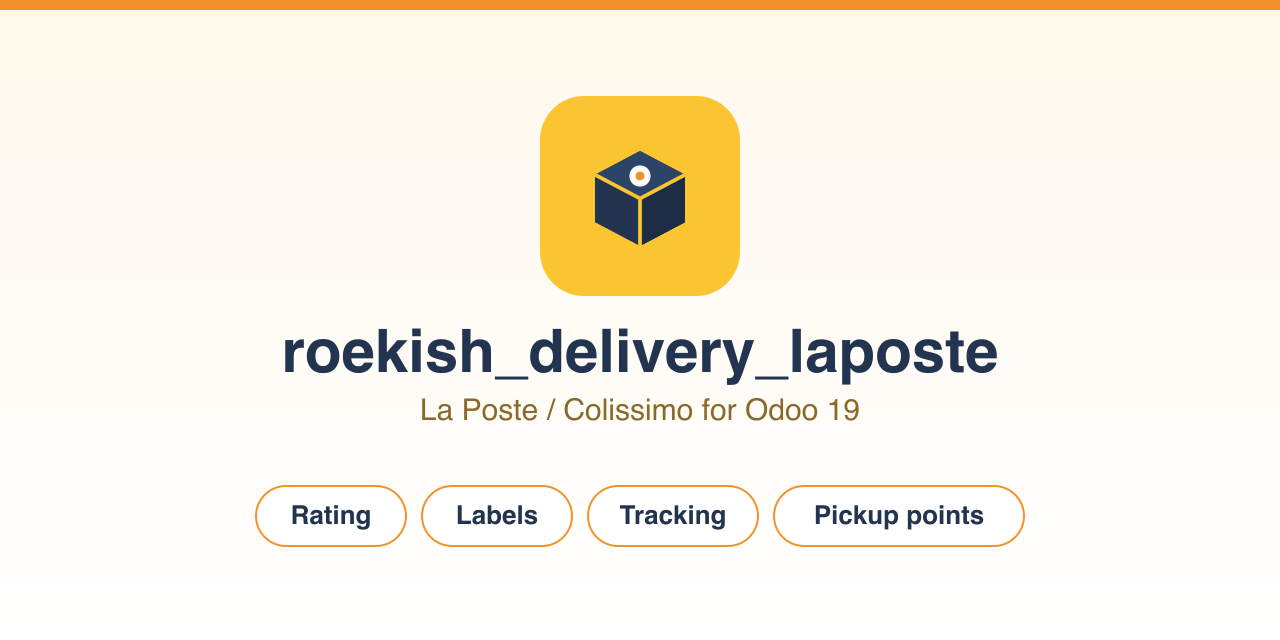
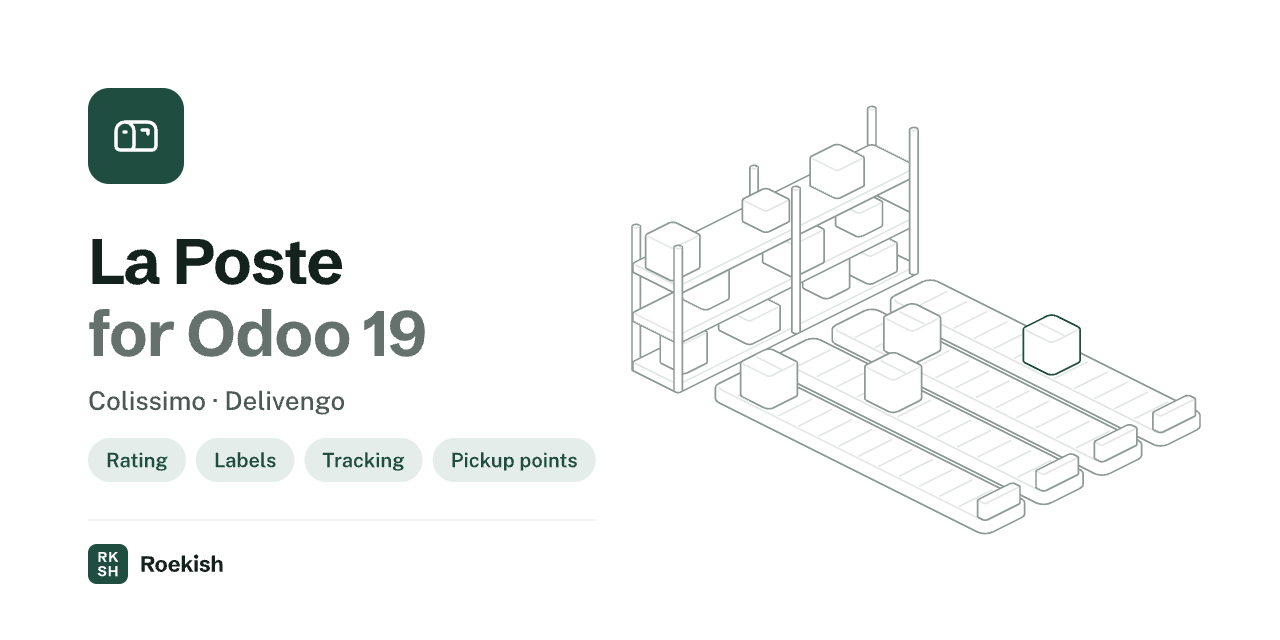
chore(store): Roekish brand assets and verified store page
New icon, banner and README logo in the Roekish brand; App Store
description restyled, with every fact checked against the README and code.

diff --git a/roekish_delivery_laposte/static/description/index.html b/roekish_delivery_laposte/static/description/index.html
@@ -1,66 +1,36 @@
-<section style="font-family:'Segoe UI',Roboto,Helvetica,Arial,sans-serif;color:#22344F;max-width:960px;margin:0 auto;">
+<section style="font-family:'Schibsted Grotesk','Public Sans',-apple-system,'Segoe UI',Roboto,Helvetica,Arial,sans-serif;color:#13221D;background:#FFFFFF;max-width:960px;margin:0 auto;padding:0 16px;box-sizing:border-box;">
 
-  <p style="text-align:center;margin:0 0 24px;">
-    <img src="banner.png" alt="roekish_delivery_laposte" style="max-width:100%;height:auto;border-radius:8px;"/>
+  <p style="margin:0 0 32px;">
+    <img src="banner.png" alt="La Poste for Odoo 19, published by Roekish" style="display:block;width:100%;max-width:100%;height:auto;border:1px solid #E2E7E4;border-radius:12px;"/>
   </p>
 
-  <h1 style="text-align:center;font-size:34px;margin:8px 0;">La Poste for Odoo 19: Colissimo and Delivengo</h1>
-  <p style="text-align:center;font-size:18px;color:#5c6b82;margin:0 0 32px;">
-    Rate shipments, generate labels and customs documents, track parcels and
-    offer pickup-point delivery, straight from Odoo.
+  <p style="margin:0 0 8px;font-size:13px;font-weight:600;letter-spacing:0.06em;text-transform:uppercase;color:#1F4D3F;">Odoo 19 &middot; Inventory / Delivery</p>
+  <h1 style="font-family:'Schibsted Grotesk','Public Sans',-apple-system,'Segoe UI',Roboto,Helvetica,Arial,sans-serif;font-size:34px;line-height:1.15;font-weight:700;letter-spacing:-0.02em;color:#13221D;margin:0 0 12px;">La Poste for Odoo 19: Colissimo and Delivengo</h1>
+  <p style="font-size:18px;line-height:1.6;color:#4C5A55;margin:0 0 8px;">Rate shipments, generate labels and customs documents, track parcels and offer pickup-point delivery from Odoo.</p>
+
+  <h2 style="font-family:'Schibsted Grotesk','Public Sans',-apple-system,'Segoe UI',Roboto,Helvetica,Arial,sans-serif;font-size:22px;font-weight:700;letter-spacing:-0.01em;color:#13221D;margin:44px 0 16px;padding-bottom:10px;border-bottom:2px solid #1F4D3F;">Features</h2>
+  <table style="width:100%;border-collapse:collapse;border-bottom:1px solid #E2E7E4;margin:0 0 8px;"><tr><td style="padding:12px 16px 12px 0;border-top:1px solid #E2E7E4;vertical-align:top;width:30%;font-family:'Schibsted Grotesk','Public Sans',-apple-system,'Segoe UI',Roboto,Helvetica,Arial,sans-serif;font-weight:600;font-size:15px;color:#13221D;">Rating</td><td style="padding:12px 0;border-top:1px solid #E2E7E4;vertical-align:top;font-size:15px;line-height:1.6;color:#4C5A55;">Delivery price computed from a Colissimo tariff grid (weight by zone) or from Odoo's native pricing rules.</td></tr><tr><td style="padding:12px 16px 12px 0;border-top:1px solid #E2E7E4;vertical-align:top;width:30%;font-family:'Schibsted Grotesk','Public Sans',-apple-system,'Segoe UI',Roboto,Helvetica,Arial,sans-serif;font-weight:600;font-size:15px;color:#13221D;">Delivery time</td><td style="padding:12px 0;border-top:1px solid #E2E7E4;vertical-align:top;font-size:15px;line-height:1.6;color:#4C5A55;">Announced delivery time in working days (minimum and maximum), set on the carrier and overridable per zone in the tariff grid. Returned with every quote and shown in the shipping wizard, so carriers can be compared on cost and speed.</td></tr><tr><td style="padding:12px 16px 12px 0;border-top:1px solid #E2E7E4;vertical-align:top;width:30%;font-family:'Schibsted Grotesk','Public Sans',-apple-system,'Segoe UI',Roboto,Helvetica,Arial,sans-serif;font-weight:600;font-size:15px;color:#13221D;">Labels</td><td style="padding:12px 0;border-top:1px solid #E2E7E4;vertical-align:top;font-size:15px;line-height:1.6;color:#4C5A55;">Colissimo label generation through <code style="font-family:SFMono-Regular,Menlo,Consolas,monospace;font-size:14px;background:#F4F6F5;color:#13221D;padding:1px 5px;border-radius:4px;">roulier</code>, with the tracking number stored on the delivery order.</td></tr><tr><td style="padding:12px 16px 12px 0;border-top:1px solid #E2E7E4;vertical-align:top;width:30%;font-family:'Schibsted Grotesk','Public Sans',-apple-system,'Segoe UI',Roboto,Helvetica,Arial,sans-serif;font-weight:600;font-size:15px;color:#13221D;">Tracking</td><td style="padding:12px 0;border-top:1px solid #E2E7E4;vertical-align:top;font-size:15px;line-height:1.6;color:#4C5A55;">A La Poste tracking link (laposte.fr) is exposed to the customer, for Colissimo and Delivengo parcels.</td></tr><tr><td style="padding:12px 16px 12px 0;border-top:1px solid #E2E7E4;vertical-align:top;width:30%;font-family:'Schibsted Grotesk','Public Sans',-apple-system,'Segoe UI',Roboto,Helvetica,Arial,sans-serif;font-weight:600;font-size:15px;color:#13221D;">Pickup points</td><td style="padding:12px 0;border-top:1px solid #E2E7E4;vertical-align:top;font-size:15px;line-height:1.6;color:#4C5A55;">Search nearby pickup points (Colissimo Point Retrait web service) and select one on the quotation or the delivery order, propagated on confirmation.</td></tr><tr><td style="padding:12px 16px 12px 0;border-top:1px solid #E2E7E4;vertical-align:top;width:30%;font-family:'Schibsted Grotesk','Public Sans',-apple-system,'Segoe UI',Roboto,Helvetica,Arial,sans-serif;font-weight:600;font-size:15px;color:#13221D;">Delivengo</td><td style="padding:12px 0;border-top:1px solid #E2E7E4;vertical-align:top;font-size:15px;line-height:1.6;color:#4C5A55;">A second provider for international small goods up to 2 kg. Labels and CN22/CN23 customs documents come from the MyDelivengo REST API (Delivengo easy or Profil accounts), shipments can be cancelled from Odoo, and no extra library is needed.</td></tr></table>
+
+  <h2 style="font-family:'Schibsted Grotesk','Public Sans',-apple-system,'Segoe UI',Roboto,Helvetica,Arial,sans-serif;font-size:22px;font-weight:700;letter-spacing:-0.01em;color:#13221D;margin:44px 0 16px;padding-bottom:10px;border-bottom:2px solid #1F4D3F;">Carriers and zones</h2>
+  <p style="font-size:16px;line-height:1.65;color:#4C5A55;margin:0 0 14px;">Five ready-to-use carriers ship with the 2026 public rates as editable demo data. Replace them with your own negotiated rates.</p>
+  <p style="margin:0 0 14px;"><span style="display:inline-block;margin:0 6px 8px 0;padding:5px 12px;border-radius:999px;background:#E4EDE9;color:#1F4D3F;font-size:14px;font-weight:600;line-height:1.3;">Colissimo Home</span><span style="display:inline-block;margin:0 6px 8px 0;padding:5px 12px;border-radius:999px;background:#E4EDE9;color:#1F4D3F;font-size:14px;font-weight:600;line-height:1.3;">Colissimo Pickup Point</span><span style="display:inline-block;margin:0 6px 8px 0;padding:5px 12px;border-radius:999px;background:#E4EDE9;color:#1F4D3F;font-size:14px;font-weight:600;line-height:1.3;">Colissimo Overseas Economy</span><span style="display:inline-block;margin:0 6px 8px 0;padding:5px 12px;border-radius:999px;background:#E4EDE9;color:#1F4D3F;font-size:14px;font-weight:600;line-height:1.3;">Colissimo Prepaid (Pr&ecirc;t-&agrave;-Envoyer)</span><span style="display:inline-block;margin:0 6px 8px 0;padding:5px 12px;border-radius:999px;background:#E4EDE9;color:#1F4D3F;font-size:14px;font-weight:600;line-height:1.3;">Delivengo easy</span></p>
+  <p style="font-size:16px;line-height:1.65;color:#4C5A55;margin:0 0 14px;">Colissimo zones cover metropolitan France (with Monaco and Andorra), Overseas zones 1 and 2, the European Union with Switzerland, the United Kingdom, and international zones B and C.</p><p style="font-size:16px;line-height:1.65;color:#4C5A55;margin:0 0 14px;">Delivengo is priced on two zones, the European Union with the United Kingdom and the rest of the world, with four weight bands up to 2 kg.</p>
+
+  <h2 style="font-family:'Schibsted Grotesk','Public Sans',-apple-system,'Segoe UI',Roboto,Helvetica,Arial,sans-serif;font-size:22px;font-weight:700;letter-spacing:-0.01em;color:#13221D;margin:44px 0 16px;padding-bottom:10px;border-bottom:2px solid #1F4D3F;">Security</h2>
+  <ul style="font-size:16px;line-height:1.65;color:#4C5A55;margin:0 0 14px;padding-left:20px;"><li style="margin:0 0 8px;">Colissimo credentials and the Delivengo API key are restricted to the La Poste Administrator group, and secrets are masked in error messages.</li><li style="margin:0 0 8px;">Fine-grained access rights with dedicated User and Administrator groups.</li><li style="margin:0 0 8px;">Multi-company isolation on the tariff grids.</li></ul>
+
+  <h2 style="font-family:'Schibsted Grotesk','Public Sans',-apple-system,'Segoe UI',Roboto,Helvetica,Arial,sans-serif;font-size:22px;font-weight:700;letter-spacing:-0.01em;color:#13221D;margin:44px 0 16px;padding-bottom:10px;border-bottom:2px solid #1F4D3F;">Requirements</h2>
+  <p style="font-size:16px;line-height:1.65;color:#4C5A55;margin:0 0 14px;">The module builds on Odoo's native delivery framework. Rating works with no external library. Colissimo label generation uses <code style="font-family:SFMono-Regular,Menlo,Consolas,monospace;font-size:14px;background:#F4F6F5;color:#13221D;padding:1px 5px;border-radius:4px;">roulier</code> and pickup-point search uses <code style="font-family:SFMono-Regular,Menlo,Consolas,monospace;font-size:14px;background:#F4F6F5;color:#13221D;padding:1px 5px;border-radius:4px;">zeep</code>; both libraries are optional and imported on demand. Delivengo only needs <code style="font-family:SFMono-Regular,Menlo,Consolas,monospace;font-size:14px;background:#F4F6F5;color:#13221D;padding:1px 5px;border-radius:4px;">requests</code>, shipped with Odoo.</p>
+  <p style="font-size:15px;line-height:1.65;color:#13221D;background:#E4EDE9;border-left:3px solid #1F4D3F;padding:14px 18px;border-radius:8px;margin:0 0 14px;">Deploy the module on the <code style="font-family:SFMono-Regular,Menlo,Consolas,monospace;font-size:14px;background:#F4F6F5;color:#13221D;padding:1px 5px;border-radius:4px;">addons_path</code> (Odoo.sh or On-Premise). The Apps &gt; Import Module zip upload is data-only and cannot install a module that ships Python models. On Odoo Online (SaaS) Python libraries cannot be installed either, so label generation and pickup-point search need Odoo.sh or On-Premise, where <code style="font-family:SFMono-Regular,Menlo,Consolas,monospace;font-size:14px;background:#F4F6F5;color:#13221D;padding:1px 5px;border-radius:4px;">roulier</code> and <code style="font-family:SFMono-Regular,Menlo,Consolas,monospace;font-size:14px;background:#F4F6F5;color:#13221D;padding:1px 5px;border-radius:4px;">zeep</code> are available.</p>
+
+  <p style="text-align:center;margin:40px 0 12px;">
+    <a href="https://www.roekish.com/applications/la-poste/documentation" style="display:inline-block;background:#1F4D3F;color:#FFFFFF;text-decoration:none;padding:12px 26px;border-radius:999px;font-weight:600;font-size:15px;margin:0 4px 10px;">Read the documentation</a>
+    <a href="https://github.com/roekish-org/odoo-delivery-laposte" style="display:inline-block;background:#FFFFFF;color:#1F4D3F;text-decoration:none;padding:11px 25px;border-radius:999px;border:1px solid #1F4D3F;font-weight:600;font-size:15px;margin:0 4px 10px;">Source code on GitHub</a>
   </p>
 
-  <h2 style="border-bottom:3px solid #F0932B;padding-bottom:6px;">Features</h2>
-  <ul style="font-size:16px;line-height:1.7;">
-    <li><b>Rating</b>: delivery price computed from a Colissimo tariff grid (weight by zone) or from Odoo's native pricing rules.</li>
-    <li><b>Delivery time</b>: announced delivery time in working days, set on the carrier and per zone, returned with every quote and shown in the shipping wizard so carriers can be compared on cost and speed.</li>
-    <li><b>Labels</b>: Colissimo label generation, with the tracking number stored on the delivery order.</li>
-    <li><b>Tracking</b>: a Colissimo tracking link is exposed to the customer.</li>
-    <li><b>Pickup points</b>: search nearby relay points and select one on the sale order or the delivery order, propagated on confirmation.</li>
-    <li><b>Delivengo</b>: a second provider for international small goods up to 2 kg. Labels and CN22/CN23 customs documents come from the MyDelivengo REST API (Delivengo easy or Profil accounts), shipments can be cancelled from Odoo, and no extra library is needed.</li>
-  </ul>
-
-  <h2 style="border-bottom:3px solid #F0932B;padding-bottom:6px;">Carriers and zones</h2>
-  <p style="font-size:16px;line-height:1.7;">
-    Five ready-to-use carriers ship with public tariffs, which you replace
-    with your own negotiated rates: Colissimo Home, Pickup Point, Overseas
-    Economy and Prepaid (Pret-a-Envoyer), plus Delivengo easy. Colissimo zones
-    cover metropolitan France, Overseas (zones 1 and 2), the European Union
-    with Switzerland, the United Kingdom, and international zones B and C.
-    Delivengo is priced on two zones: European Union with the United Kingdom,
-    and the rest of the world.
-  </p>
-
-  <h2 style="border-bottom:3px solid #F0932B;padding-bottom:6px;">Security</h2>
-  <ul style="font-size:16px;line-height:1.7;">
-    <li>Colissimo credentials and the Delivengo API key are restricted to the La Poste Administrator group, and secrets are masked in error messages.</li>
-    <li>Fine-grained access rights with dedicated User and Administrator groups.</li>
-    <li>Multi-company isolation on the tariff grids.</li>
-  </ul>
-
-  <h2 style="border-bottom:3px solid #F0932B;padding-bottom:6px;">Requirements</h2>
-  <p style="font-size:16px;line-height:1.7;">
-    The module builds on Odoo's native delivery framework. Rating works with no
-    external library. Colissimo label generation uses <code>roulier</code> and
-    pickup-point search uses <code>zeep</code>; both libraries are optional and
-    imported on demand. Delivengo only needs <code>requests</code>, shipped
-    with Odoo.
-  </p>
-  <p style="font-size:15px;line-height:1.7;background:#FFF4E1;border-left:4px solid #F0932B;padding:12px 16px;border-radius:6px;">
-    Deploy the module on the <code>addons_path</code> (Odoo.sh or On-Premise).
-    The Apps &gt; Import Module zip upload is data-only and cannot install a
-    module that ships Python models. On Odoo Online (SaaS) Python libraries
-    cannot be installed either, so label generation and pickup-point search
-    need Odoo.sh or On-Premise, where <code>roulier</code> and
-    <code>zeep</code> are available.
-  </p>
-
-  <div style="text-align:center;margin:32px 0 8px;">
-    <a href="https://github.com/roekish-org/odoo-delivery-laposte" style="display:inline-block;background:#F0932B;color:#fff;text-decoration:none;padding:12px 28px;border-radius:28px;font-weight:600;">Source code and documentation</a>
+  <div style="margin:32px 0 8px;padding-top:20px;border-top:1px solid #E2E7E4;text-align:center;font-size:14px;line-height:1.7;color:#64716C;">
+    <p style="margin:0 0 6px;"><span style="display:inline-block;vertical-align:middle;width:30px;height:30px;border-radius:7px;background:#1F4D3F;color:#FFFFFF;font-family:'Schibsted Grotesk','Public Sans',-apple-system,'Segoe UI',Roboto,Helvetica,Arial,sans-serif;font-weight:700;font-size:11px;line-height:12px;letter-spacing:0.5px;text-align:center;padding-top:3px;box-sizing:border-box;">RK<br/>SH</span> <span style="vertical-align:middle;margin-left:6px;">Published by <a href="https://www.roekish.com" style="color:#1F4D3F;text-decoration:underline;text-underline-offset:2px;font-weight:600;">Roekish</a></span></p>
+    <p style="margin:0;"><a href="https://www.roekish.com/applications/la-poste" style="color:#1F4D3F;text-decoration:underline;text-underline-offset:2px;">Product page</a> &middot; <a href="https://www.roekish.com/applications/la-poste/documentation" style="color:#1F4D3F;text-decoration:underline;text-underline-offset:2px;">Documentation</a> &middot; <a href="https://github.com/roekish-org/odoo-delivery-laposte" style="color:#1F4D3F;text-decoration:underline;text-underline-offset:2px;">GitHub</a> &middot; AGPL-3.0 licence</p>
   </div>
-
-  <p style="text-align:center;color:#8a94a6;font-size:14px;margin-top:24px;">
-    AGPL-3.0 licence. Published by ROEKISH.
-  </p>
 
 </section>
